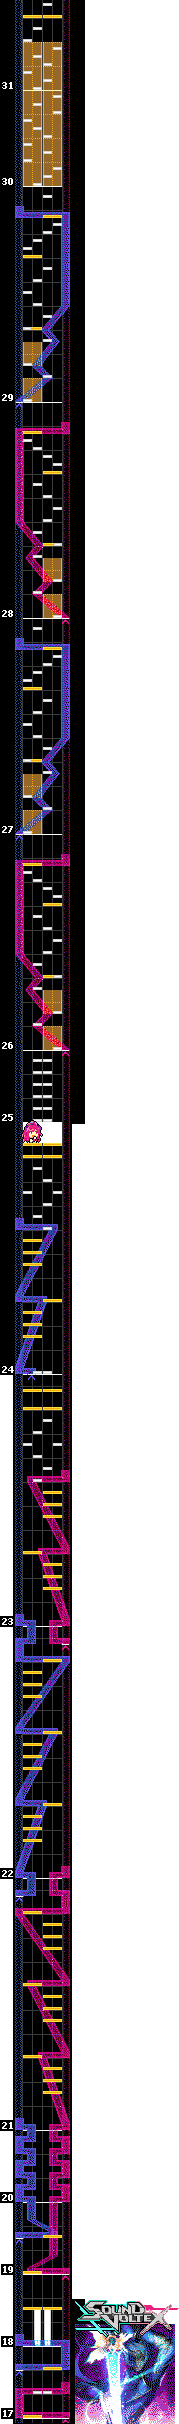
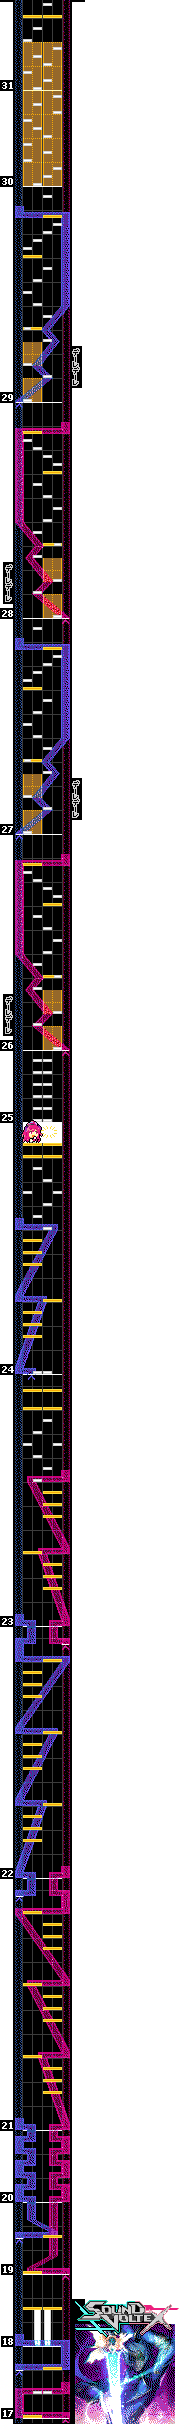
Added "de-re de-re", etc minor fixes.

Changed region(s): [[0.0, 0.0, 0.0838, 0.5879], [0.3911, 0.0, 0.4749, 0.4641]]

diff --git a/README.md b/README.md
@@ -25,8 +25,10 @@ This is an ongoing wplace project by [Sound Voltex](https://wplace.live/join?id=
 
 List is written in reverse order; the most recent change is at the top.
 
-- 2025-05-18: Modified a few pixels around blue lasers to be more consistent.
-- 2025-05-18: Removed parts of completed margin that is no longer considered "essential".
+- 2025-08-19: Removed all margins. Add impact line for *le rasis*. Added デーレデーレ near デーレデーレ. Fixed inconsistent right laser lane.
+  - This should be "release candidate" for the final result.
+- 2025-08-18: Modified a few pixels around blue lasers to be more consistent.
+- 2025-08-18: Removed parts of completed margin that is no longer considered "essential".
   - The goal is to allow other artworks to partially overlap with the margin, without causing BlueMarble overlay to make it annoying.
   - I will continue removing parts of margin that is already completed.
 - 2025-08-17: Added boundaries around the hole.
